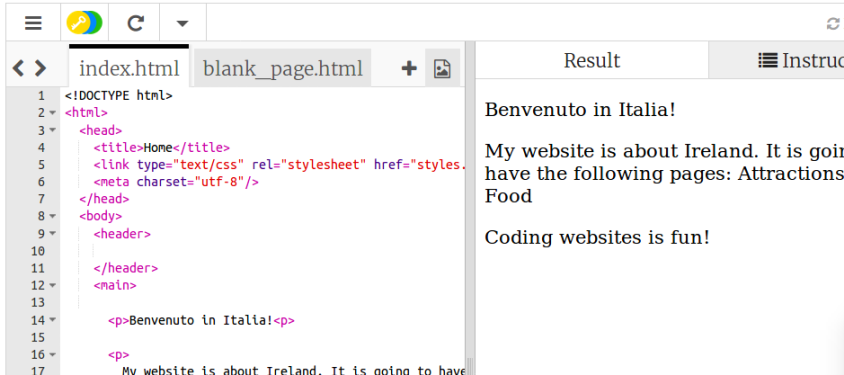
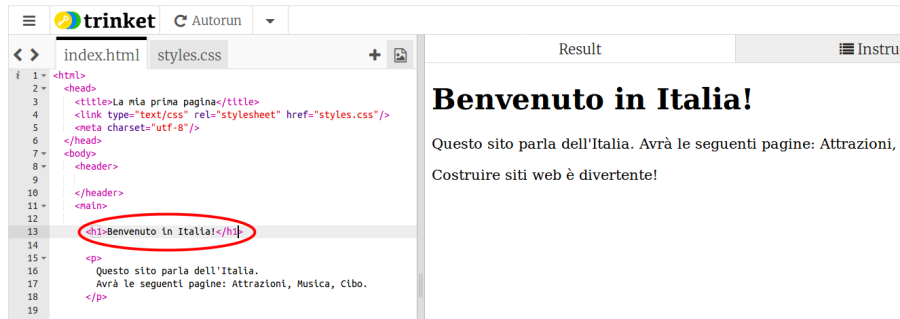
Updates it/assets/FirstTagsAndRun.png
Auto commit by GitBook Editor

diff --git a/it/creating-a-web-page.md b/it/creating-a-web-page.md
@@ -1,9 +1,11 @@
 1. Nel pannello di sinistra, il **pannello del codice**, clicca sulla linguetta dove è scritto "index.html".
-2. Trova la linea dove è scritto "Welcome to Ireland!" e modificala in modo che contenga il nome della tua nazione o città. Per esempio scrivi "Benvenuto in Italia!"; fai attenzione a non cancellare i caratteri `<p>` all'inizio della linea e i caratteri `</p>` alla fine. Se è selezionata la modalità "Autorun", il pannello di destra si aggiornerà automaticamente, altrimenti clicca sul pulsante "Click To Run". Il pannello di destra \(la pagina web\) si aggiornerà. ![](assets/egFirstHtmlCodeRun.png)
+2. Trova la linea dove è scritto "Benvenuto in Italia!" e se vuoi modificala in modo che contenga il nome della tua città o della tua regione. Fai attenzione a non cancellare i caratteri `<p>` all'inizio della linea e i caratteri `</p>` alla fine. Se è selezionata la modalità "Autorun", il pannello di destra si aggiornerà automaticamente, altrimenti clicca sul pulsante "Click To Run". Il pannello di destra \(la pagina web\) si aggiornerà. 
 3. Adesso, nella stessa linea, cambia i caratteri `<p>` e `</p>` in `<h1>` e `</h1>`. Cosa succede?
    ```html
     <h1>Benvenuto in Italia!</h1>
    ```
+![](assets/egFirstHtmlCodeRun.png)
+
 4. Per mettere del testo in una pagina web, è necessario inserirlo tra due **tag**. I tag "dicono" al browser come il testo deve essere visualizzato. Per esempio, il tag `<p>` indica al browser che il testo che segue è quello di un paragrafo, cioè un testo normale, mentre il tag `<h1>` indica un titolo.
    * I **browser** sono i programmi utilizzati per visualizzare i siti web, per esempio Firefox e Chrome.
    * Il nome del file termina in **.html** per indicare al browser che il file contiene una pagina web. Come conseguenza il browser cerca i tag all'interno dei file per sapere come rappresentare il testo. **HTML** è il linguaggio utilizzato per rappresentare il codice delle pagine web.
@@ -12,18 +14,18 @@
    * Notare come il tag di **chiusura** utilizza una barra `/`.
    * I tag definiscono le varie parti della pagina, per esempio paragrafi e titoli, o l'intero corpo \(body\) della pagina; queste parti sono chiamate **elementi**. e bisogna pensare a loro come agli **elementi costitutivi** \(building block\) della pagina..
 
-6. Prova a cambiare il tag `p` in `h2` nella paragrafo dove è scritto "Coding websites is fun!". Ricordati di cambiare sia il tag di ** apertura** `<p>` che quello di **chiusura** `</p>`.
+6. Prova a cambiare il tag `p` in `h2` nella paragrafo dove è scritto "Costruire siti web è divertente". Ricordati di cambiare sia il tag di ** apertura** `<p>` che quello di **chiusura** `</p>`.
 
-7. Cerca i tag `<title>` e `</title>` e cambia il testo contenuto tra essi in "La mia prima pagina web". Premi il pulsante "Click to run" se necessario. ![](/assets/FirstTagsAndRun.png)
+7. Cerca i tag `<title>` e `</title>` e cambia il testo contenuto tra essi in "La mia prima pagina web". Premi il pulsante "Click to run" se necessario. ![](assets/FirstTagsAndRun.png)
 
    * Il titolo è il testo che normalmente si vede nel tab o nel titolo della finestra del browser. Trinket non la mostra ma la vedremo successivamente dopo aver scaricato il codice.
 
-8. Cerca il codice del paragrafo dove è scritto: "My website is about Ireland" e cambialo nel seguente modo \(approfittiane per tradurlo!\):
+8. Cerca il codice del paragrafo dove è scritto: "Questo sito parla dell'Italia" e cambialo nel seguente modo:
 
    ```html
       <p>
          <em>Questo sito</em> parla dell'<strong>Italia</strong>.
-         Sono in preparazione le seguenti pagine: Attrazioni, Musica e Cibo.
+         Avrà le seguenti pagine: Attrazioni, Musica e Cibo.
       </p>
    ```
 
